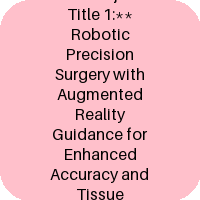
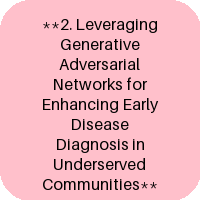
Update C++ learning topics in README

Changed region(s): [[0.21, 0.03, 0.81, 1.0], [0.57, 0.0, 0.6, 0.03]]

diff --git a/README.md b/README.md
@@ -15,13 +15,9 @@
 
 ### Project Ideas (AI generated; updates automatically everyday)
 <!--C++_TOPICS-->
-- **AI in Surgery**
+- **1. Artificial Intelligence-Driven Precision Surgery for Minimizing Surgical Complications**
 - 
-- * **Project Title 1:** Robotic Precision Surgery with Augmented Reality Guidance for Enhanced Accuracy and Tissue Preservation
-- 
-- **AI in Diagnosis**
-- 
-- * **Project Title 2:** Development of an AI-Powered Diagnostic System for Early Detection and Monitoring of Alzheimer's Disease
+- **2. Leveraging Generative Adversarial Networks for Enhancing Early Disease Diagnosis in Underserved Communities**
 <!--END_C++_TOPICS-->
 
 
